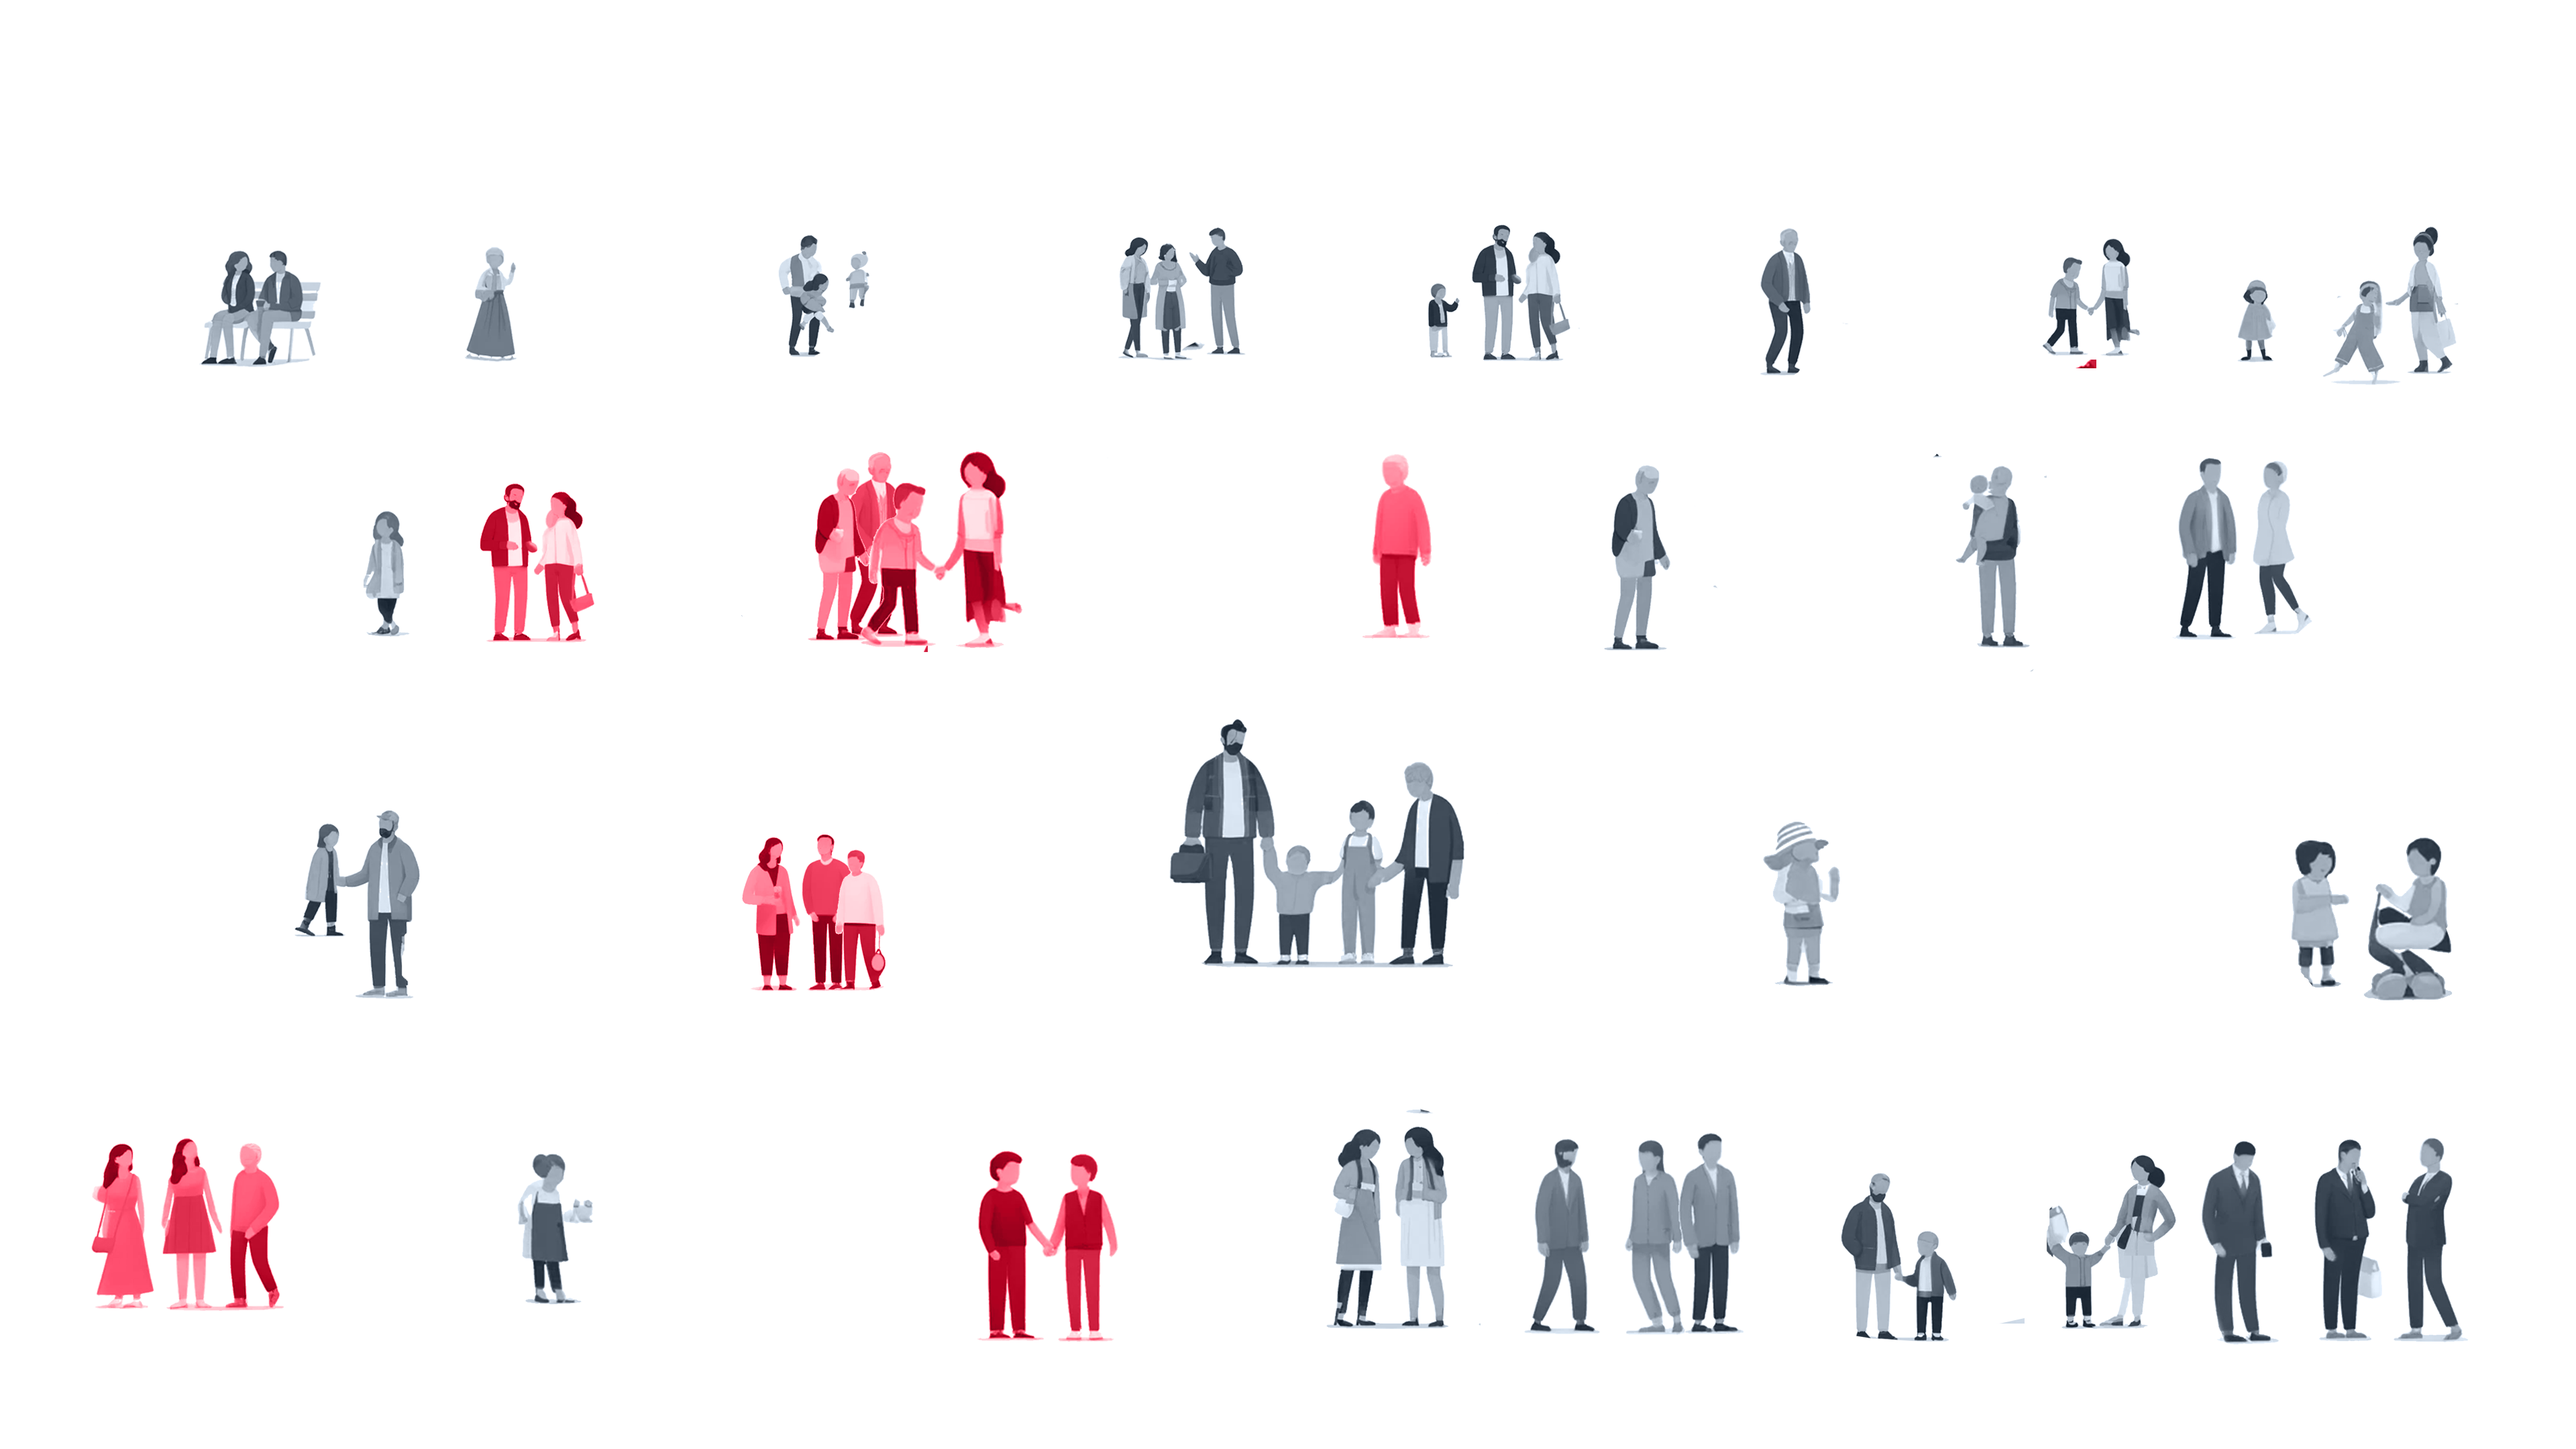
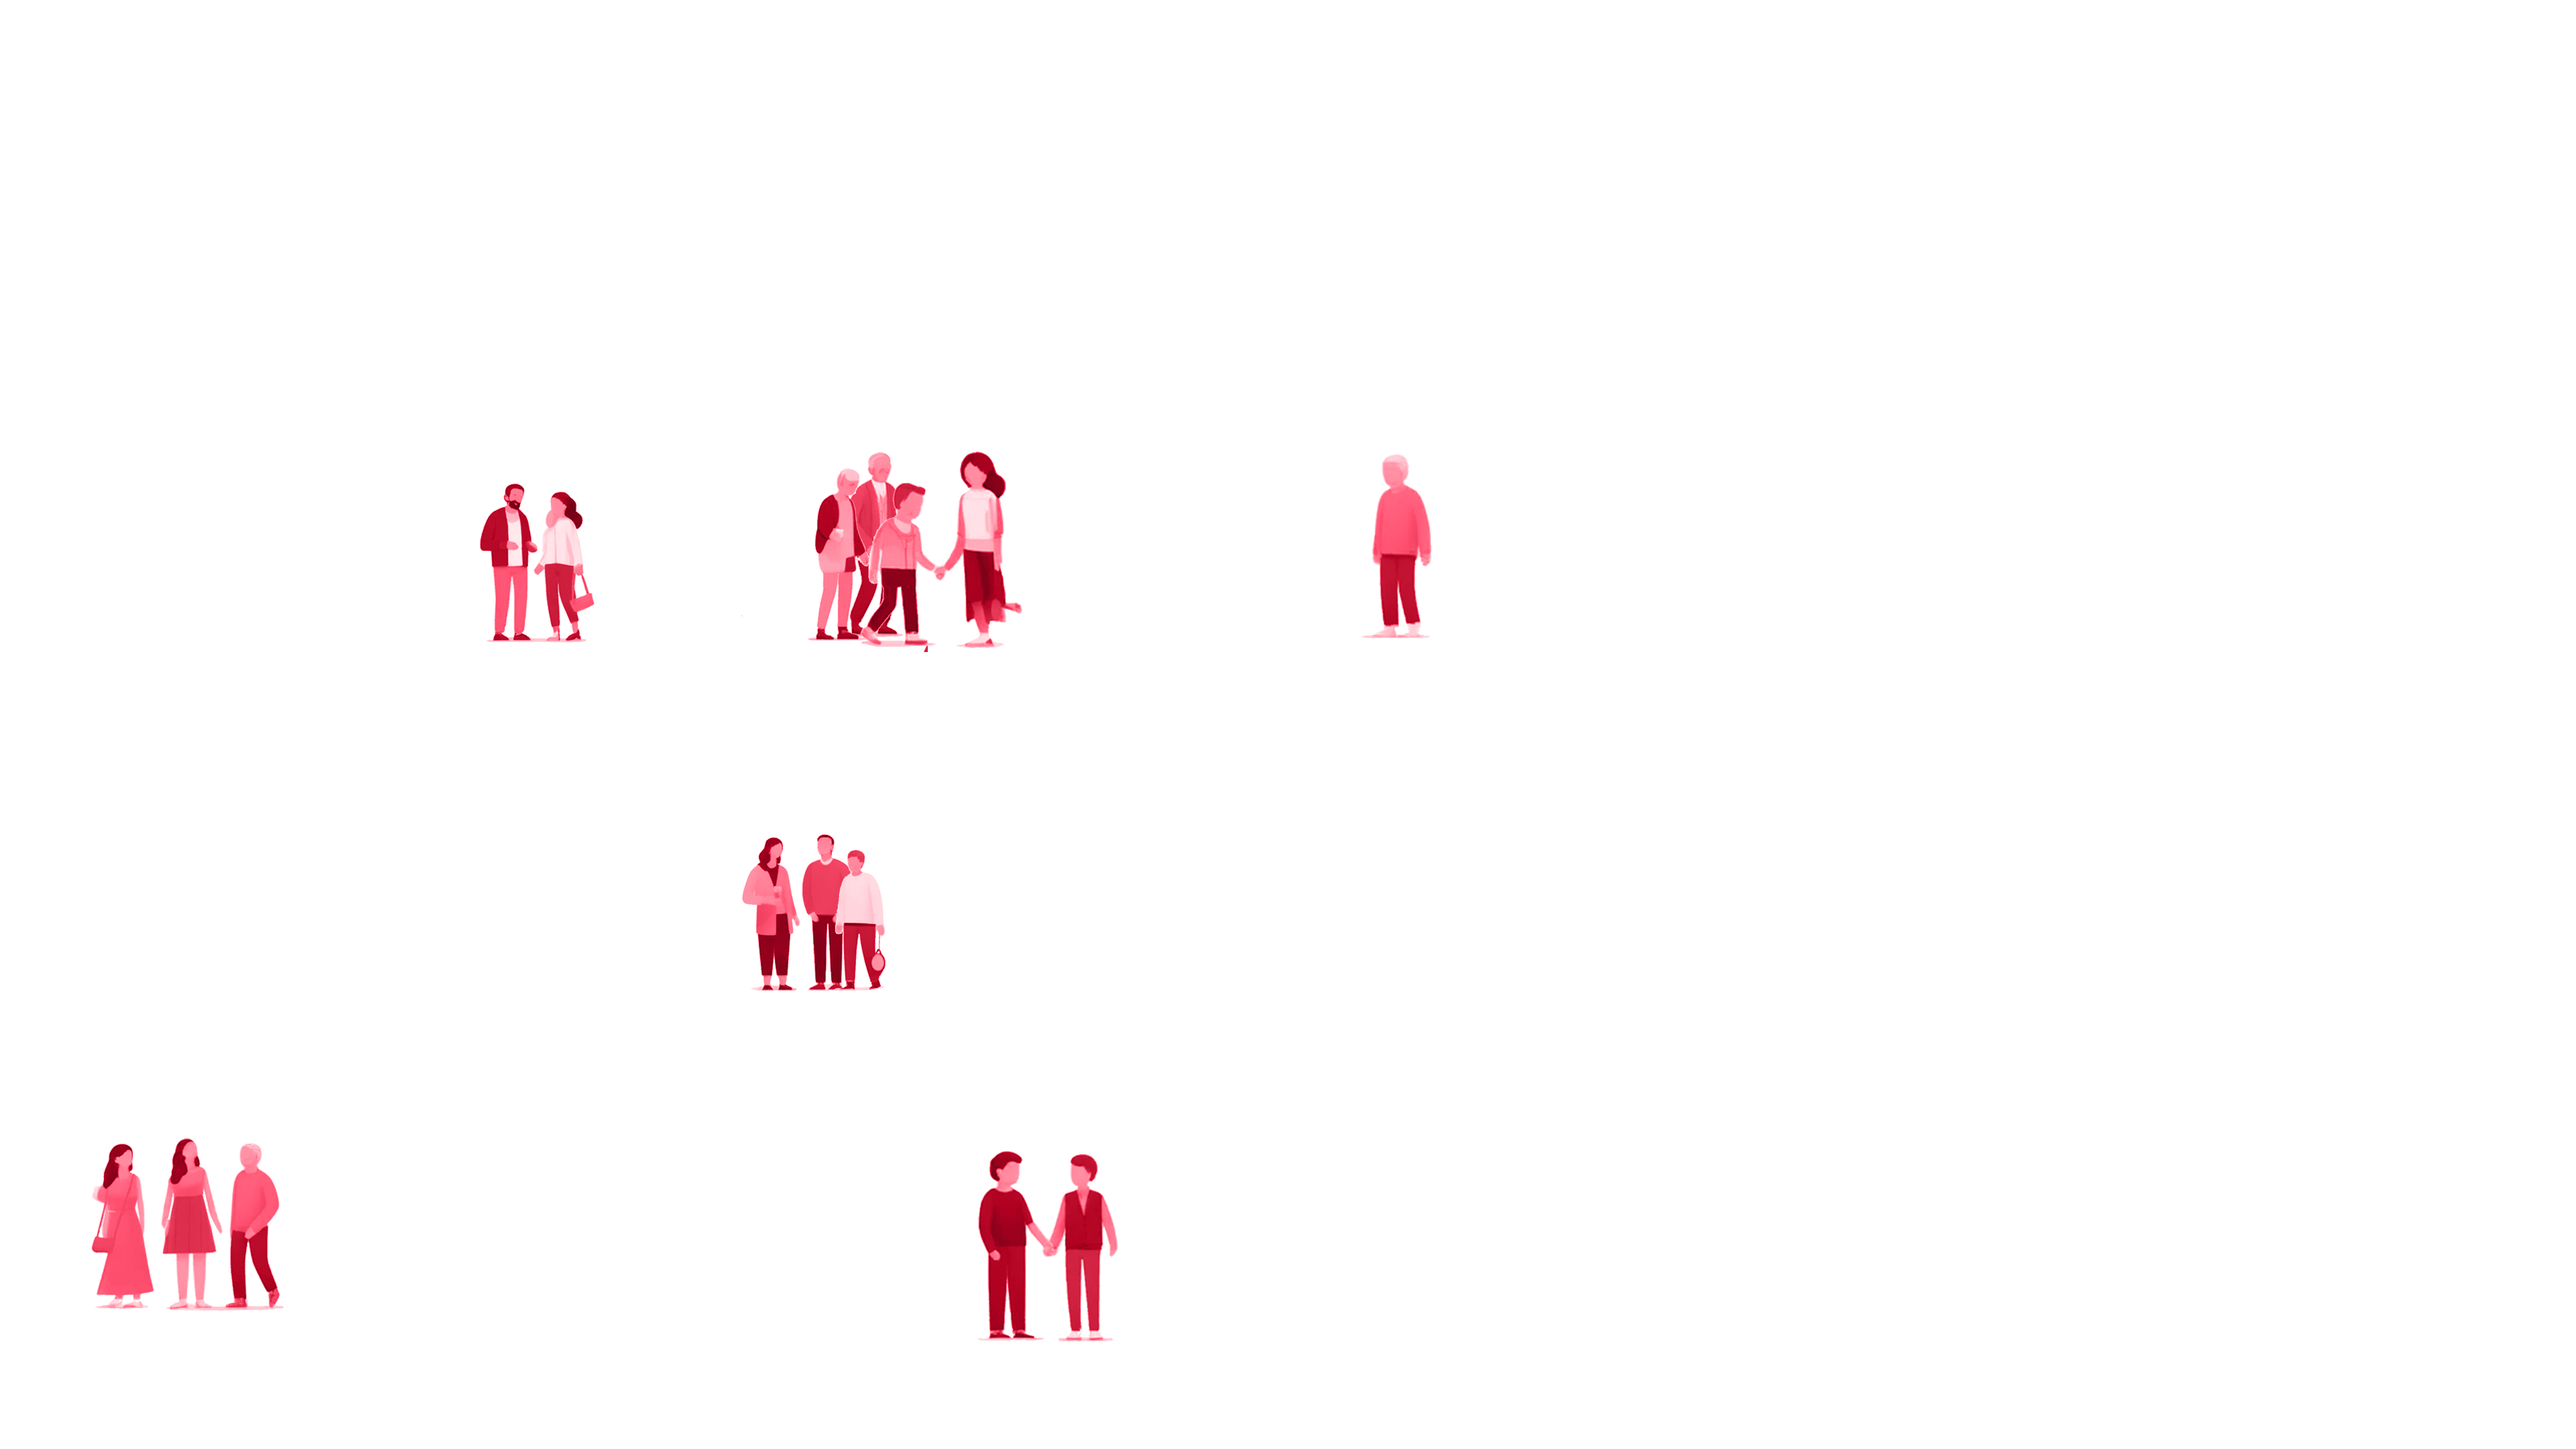
Update Tim transition

diff --git a/src/routes/+page.svelte b/src/routes/+page.svelte
@@ -53,18 +53,19 @@
 
   let taxGroupTran = createUpDownTransition(20, 50, 70, 90);
   $: alphaBg = 1 - taxGroupTran(progressTax);
+  $: opacityBg = 0.3 * alphaBg;
   $: opacityTaxGroup = taxGroupTran(progressTax);
 
   let peopleColorPhase1Tran = createUpDownTransition(10, 60, 80, 90);
   let peopleColorPhase2Tran = createUpDownTransition(60, 70, 80, 90);
   $: opacityPeopleColor = 0.3 * peopleColorPhase1Tran(progressQuestion) + 0.7 * peopleColorPhase2Tran(progressQuestion);
-  let peopleRedTran = createUpDownTransition(80, 90, 95, 100);
+  let peopleRedTran = createUpDownTransition(75, 75, 95, 100);
   $: opacityPeopleRed = peopleRedTran(progressQuestion);
   let peopleTextTran = createUpTransition(60, 70);
-  $: opacityPeopleText = peopleTextTran(progressQuestion);
+  $: opacityPeopleText = 1 - peopleTextTran(progressQuestion);
 
   // Tim
-  let timTran = createUpDownTransition(0, 50, 90, 100);
+  let timTran = createUpDownTransition(0, 20, 90, 100);
   $: opacityTim = timTran(progressTim);
 
   // color
@@ -78,7 +79,7 @@
 </script>
 
 <div style="position: fixed; top: 0%; left: 0%; width: 100vw; height: 100vh;
-			opacity: {0.3 * alphaBg}; z-index: 1;">
+			opacity: {opacityBg}; z-index: 1;">
   <img src="/houses-dark.png" alt="houses-bg">
 </div>
 
@@ -161,7 +162,7 @@
 	<div class="relpage" style="height: 300vh;">
 	  <div class="stickybox textbox"
 		   style="top: 20%; font-size: 50pt; padding: 15%;
-				  opacity: {1 - opacityPeopleText};">
+				  opacity: {opacityPeopleText};">
 		But <tspan style="color: #EE7733;">who's</tspan> actually paying for the 2000 units of affordable housing?
 	  </div>
 	</div>
